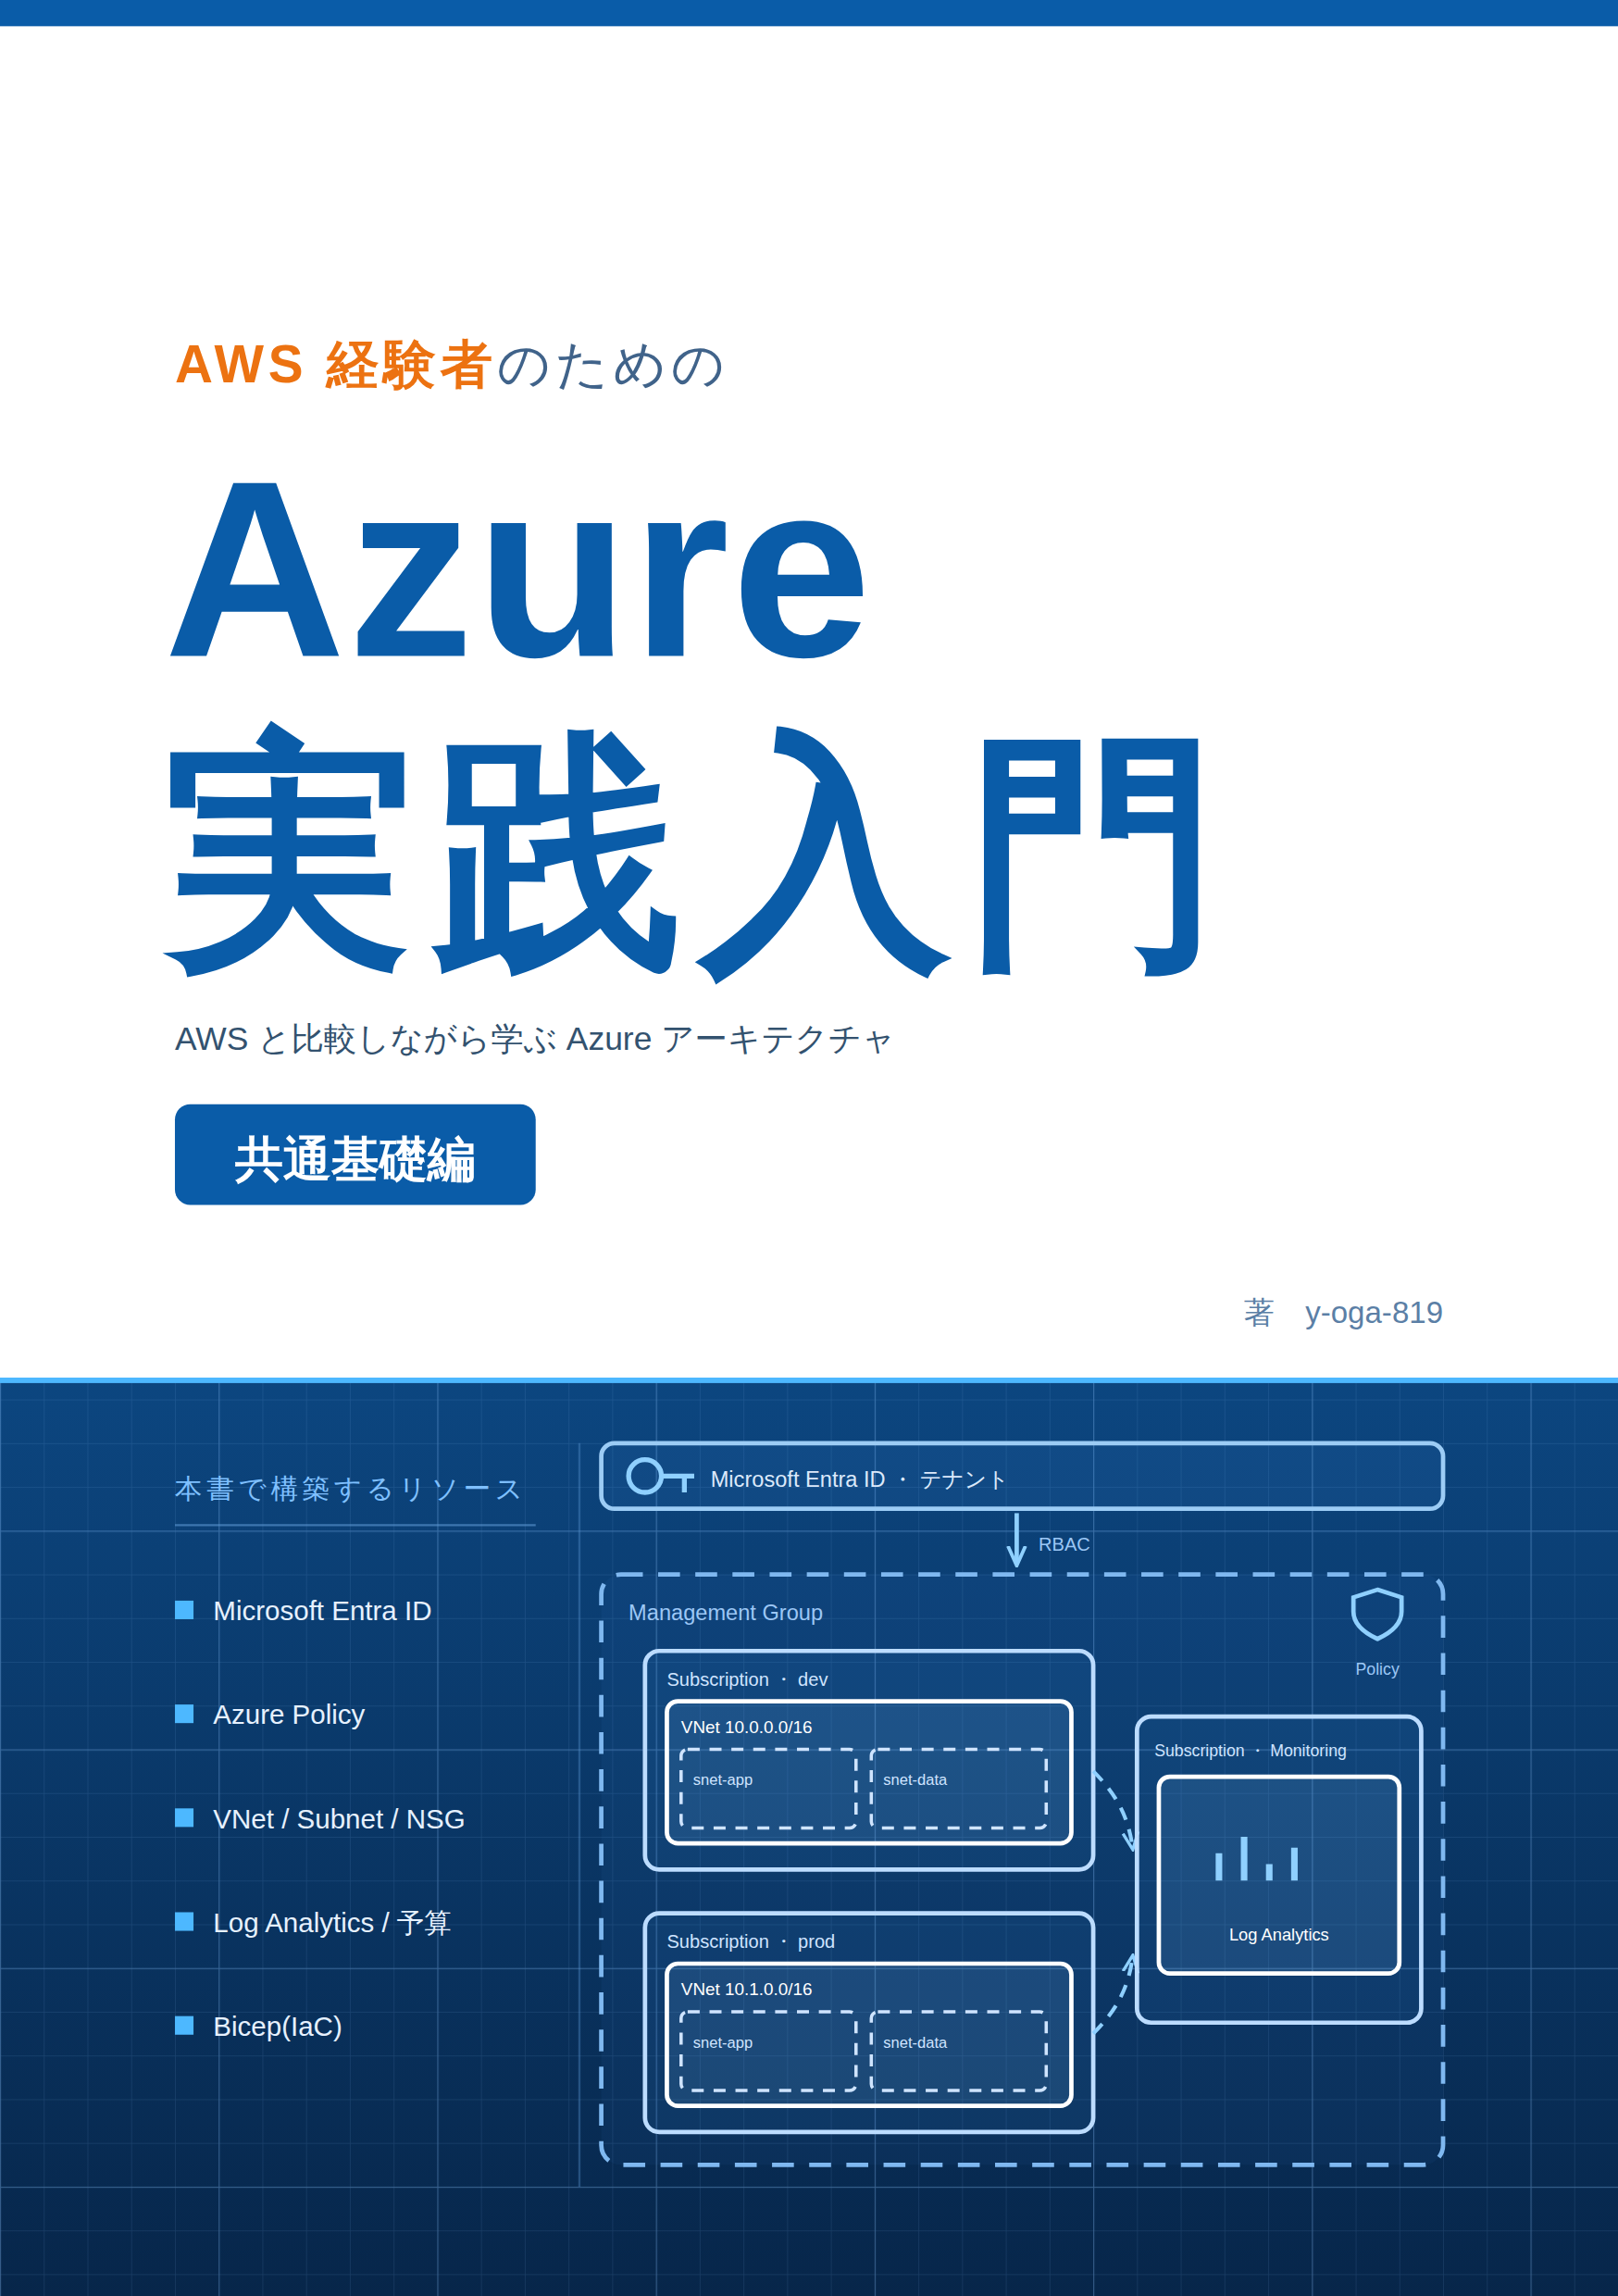
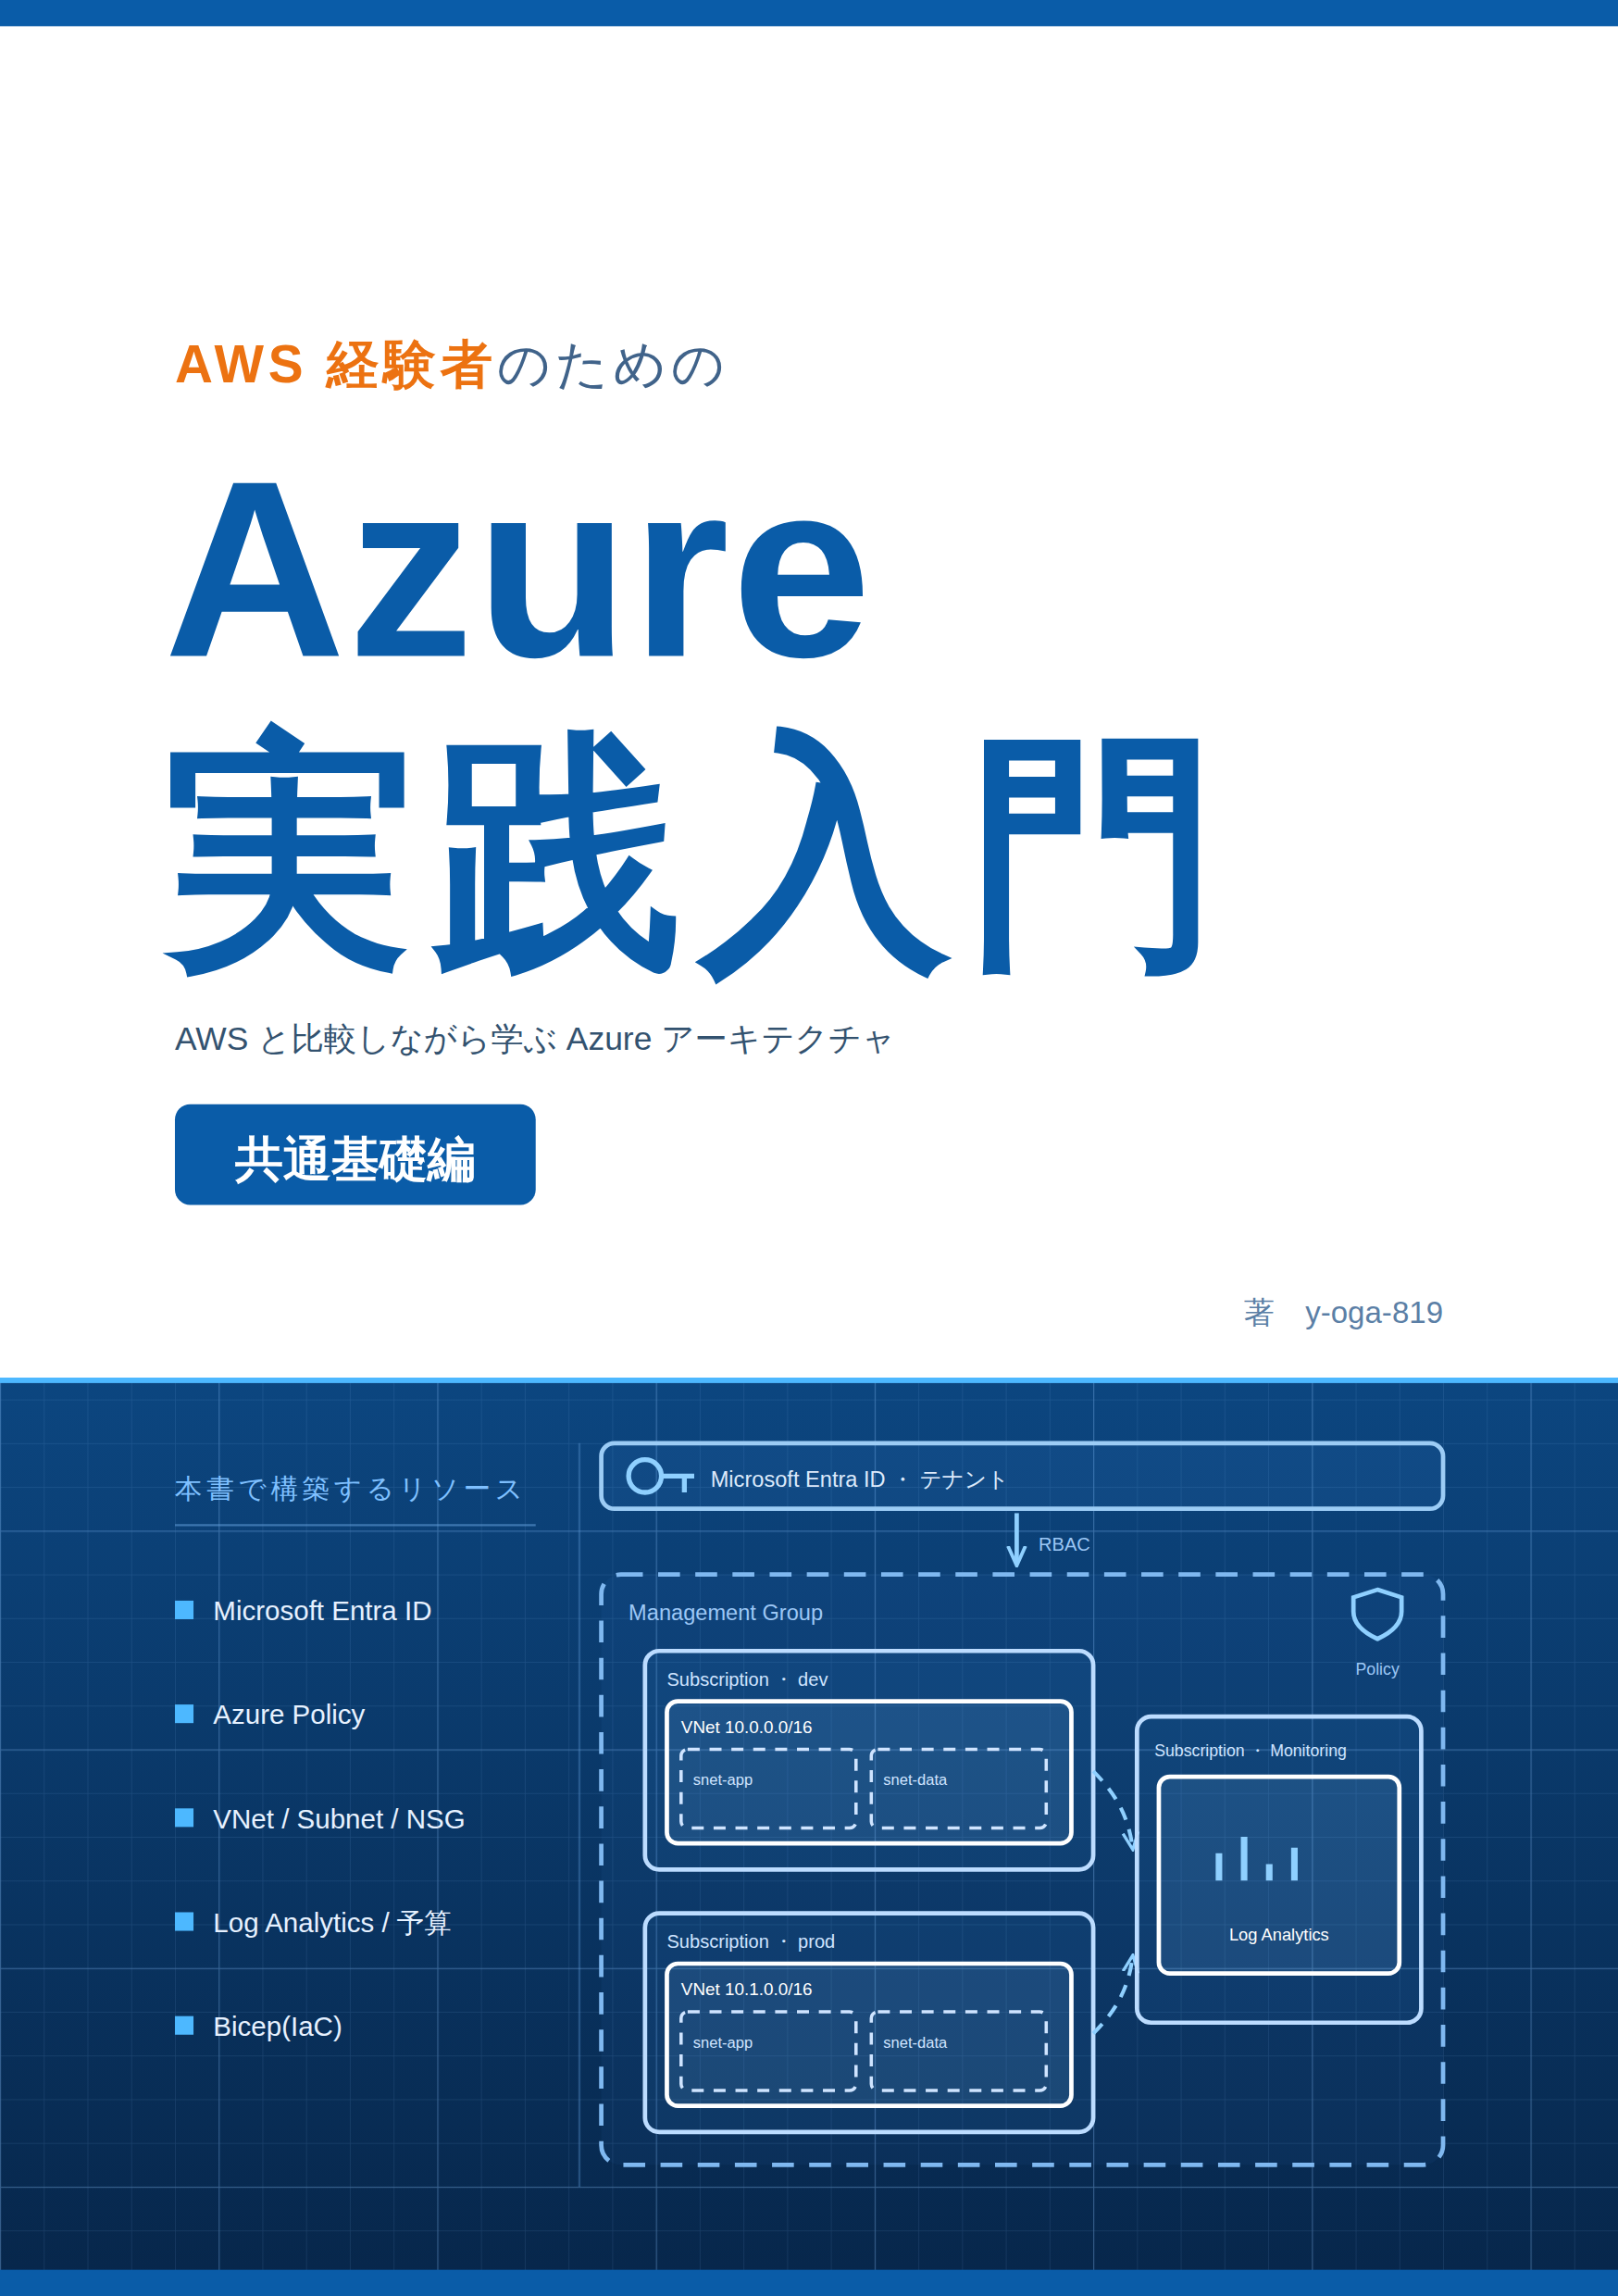
表紙: 下端に上端と対称の青アクセント帯を追加
グリッドは下端まで充填済みだが、上端の青帯(#0a5ca8)と対称になるよう
最下部にも同色のアクセント帯を追加し、上下でフレームする。

Claude-Session: https://claude.ai/code/session_01CezBjbQbhKLz5C3kQLLBtJ

Changed region(s): [[0.0, 0.9625, 1.0, 1.0]]

diff --git a/manuscripts/cover.html b/manuscripts/cover.html
@@ -128,6 +128,9 @@
           <path d="M111.5 172V169.5M113.8 172V168M116.1 172V170.5M118.4 172V169" />
         </g>
         <text x="117" y="177.5" fill="#ffffff" font-size="1.55" text-anchor="middle">Log Analytics</text>
+
+        <!-- 下端のアクセント帯(上端の青帯と対称に) -->
+        <rect x="0" y="207.6" width="148" height="2.4" fill="#0a5ca8" />
       </g>
     </svg>
   </body>